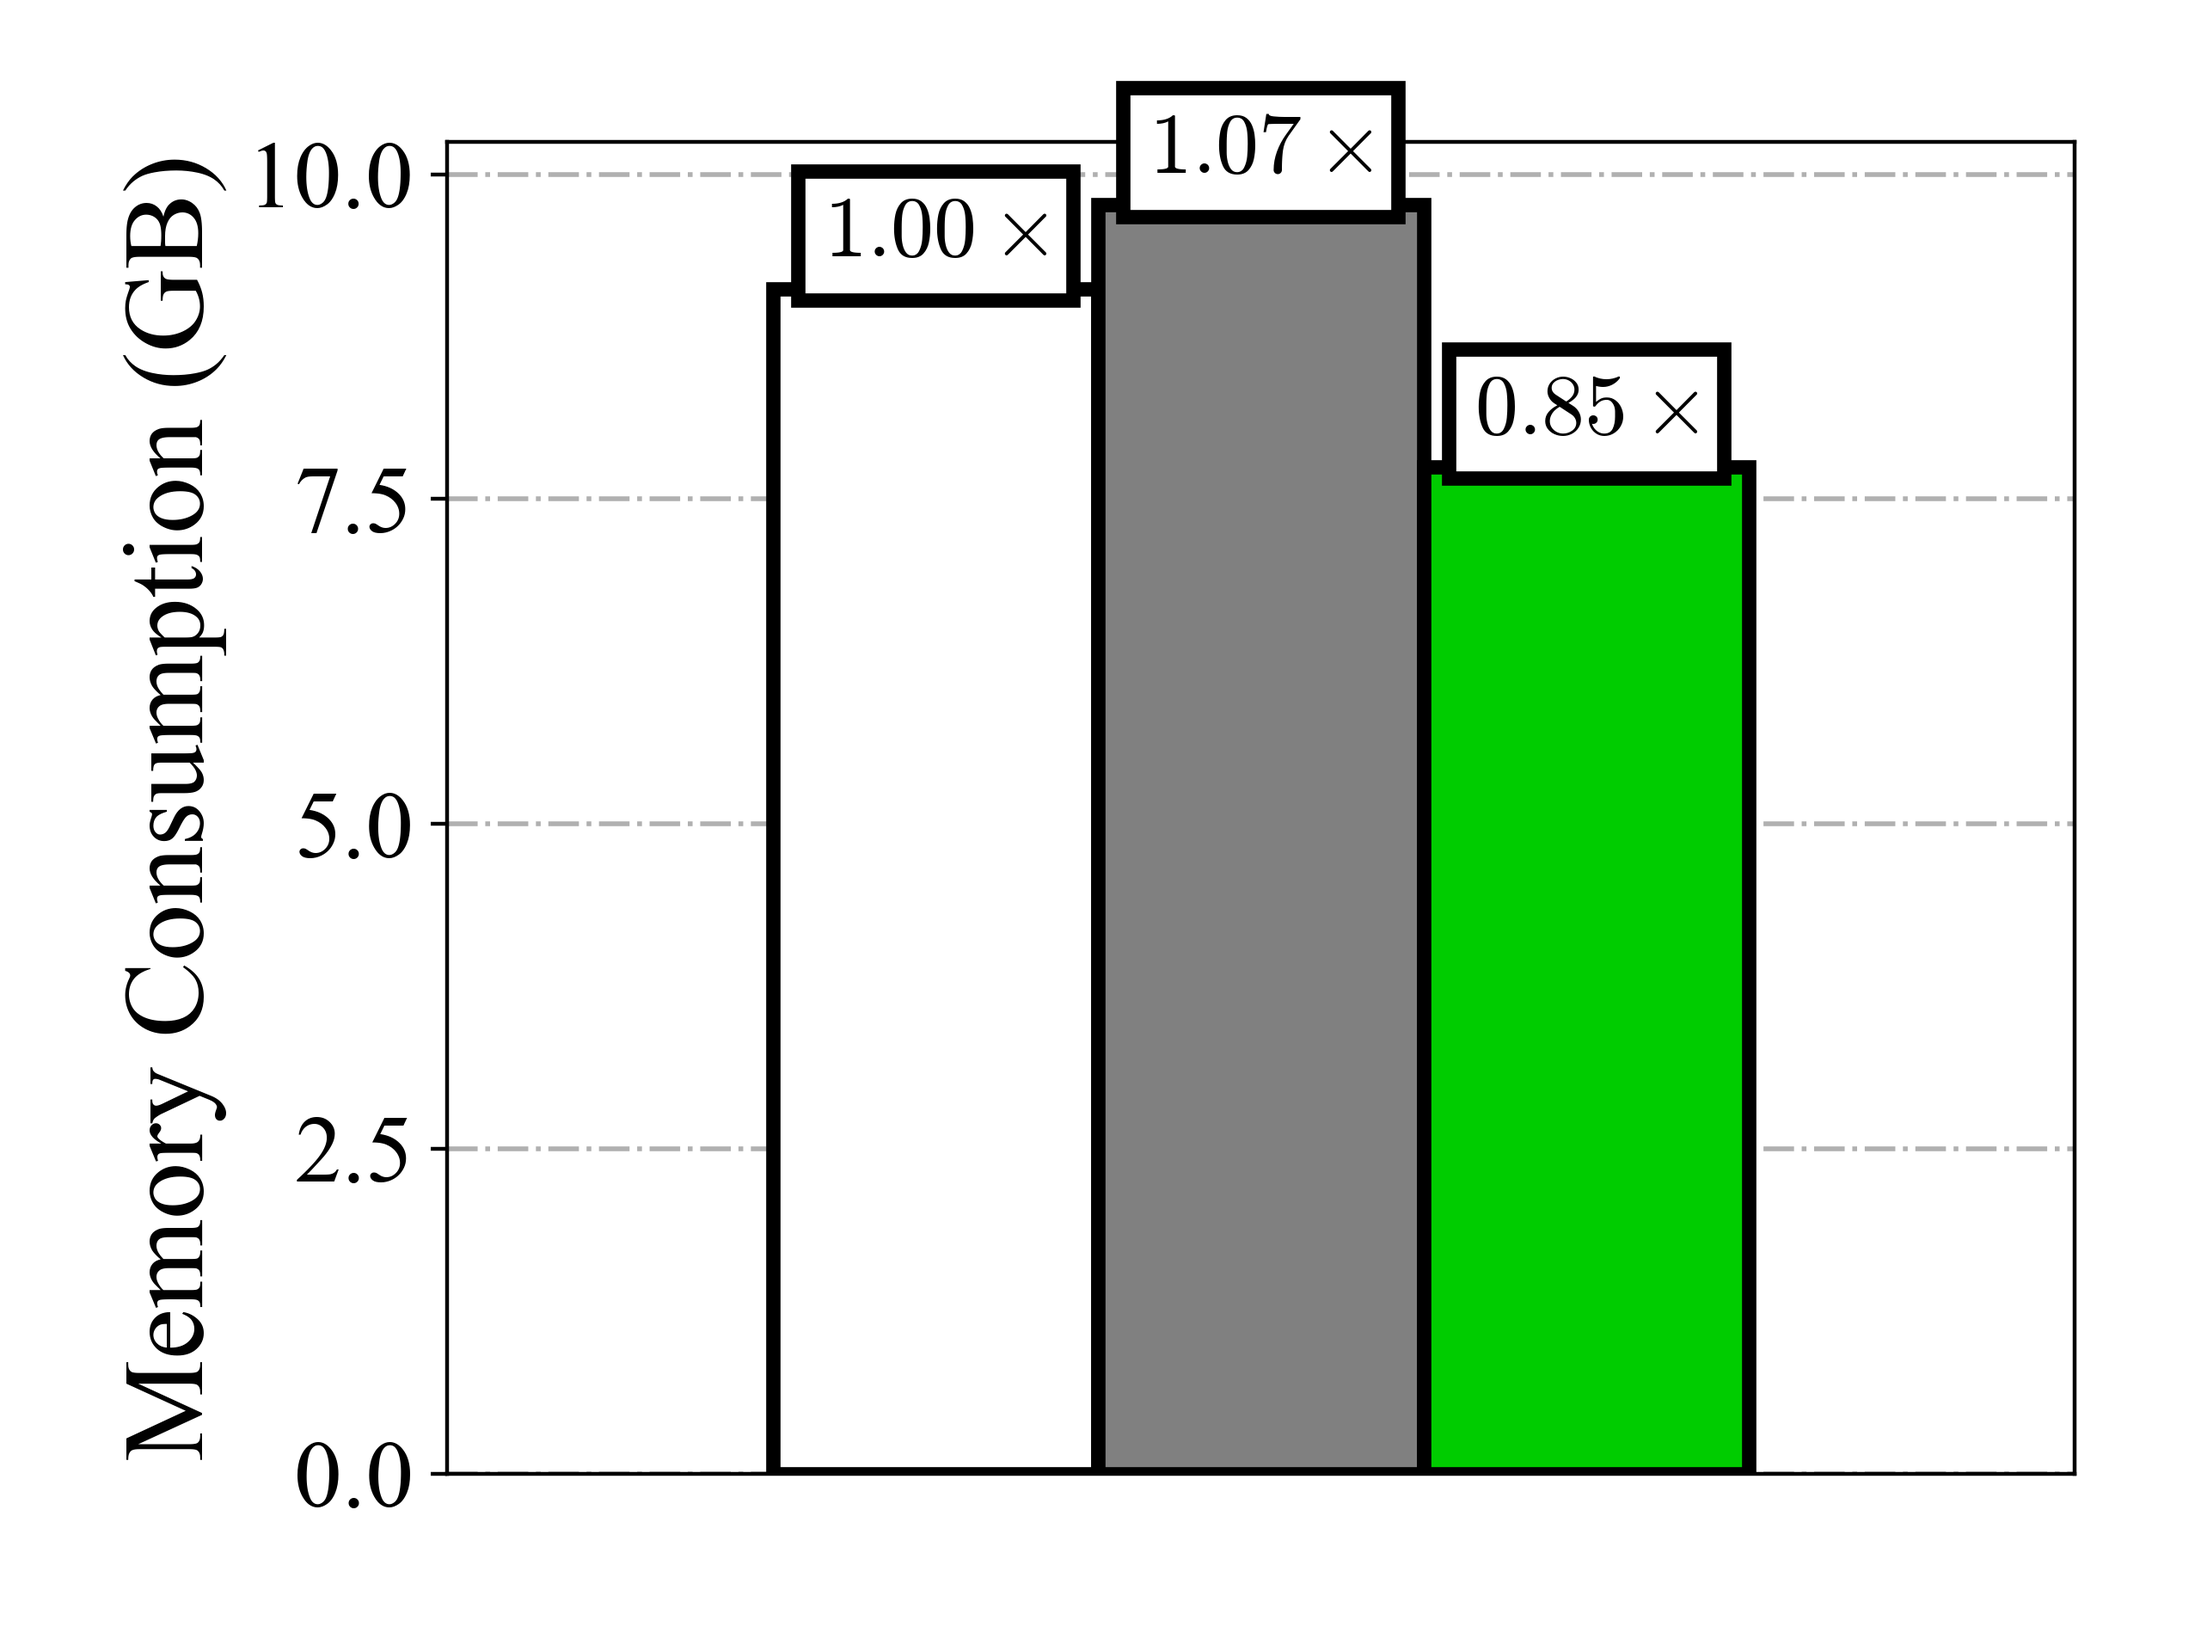
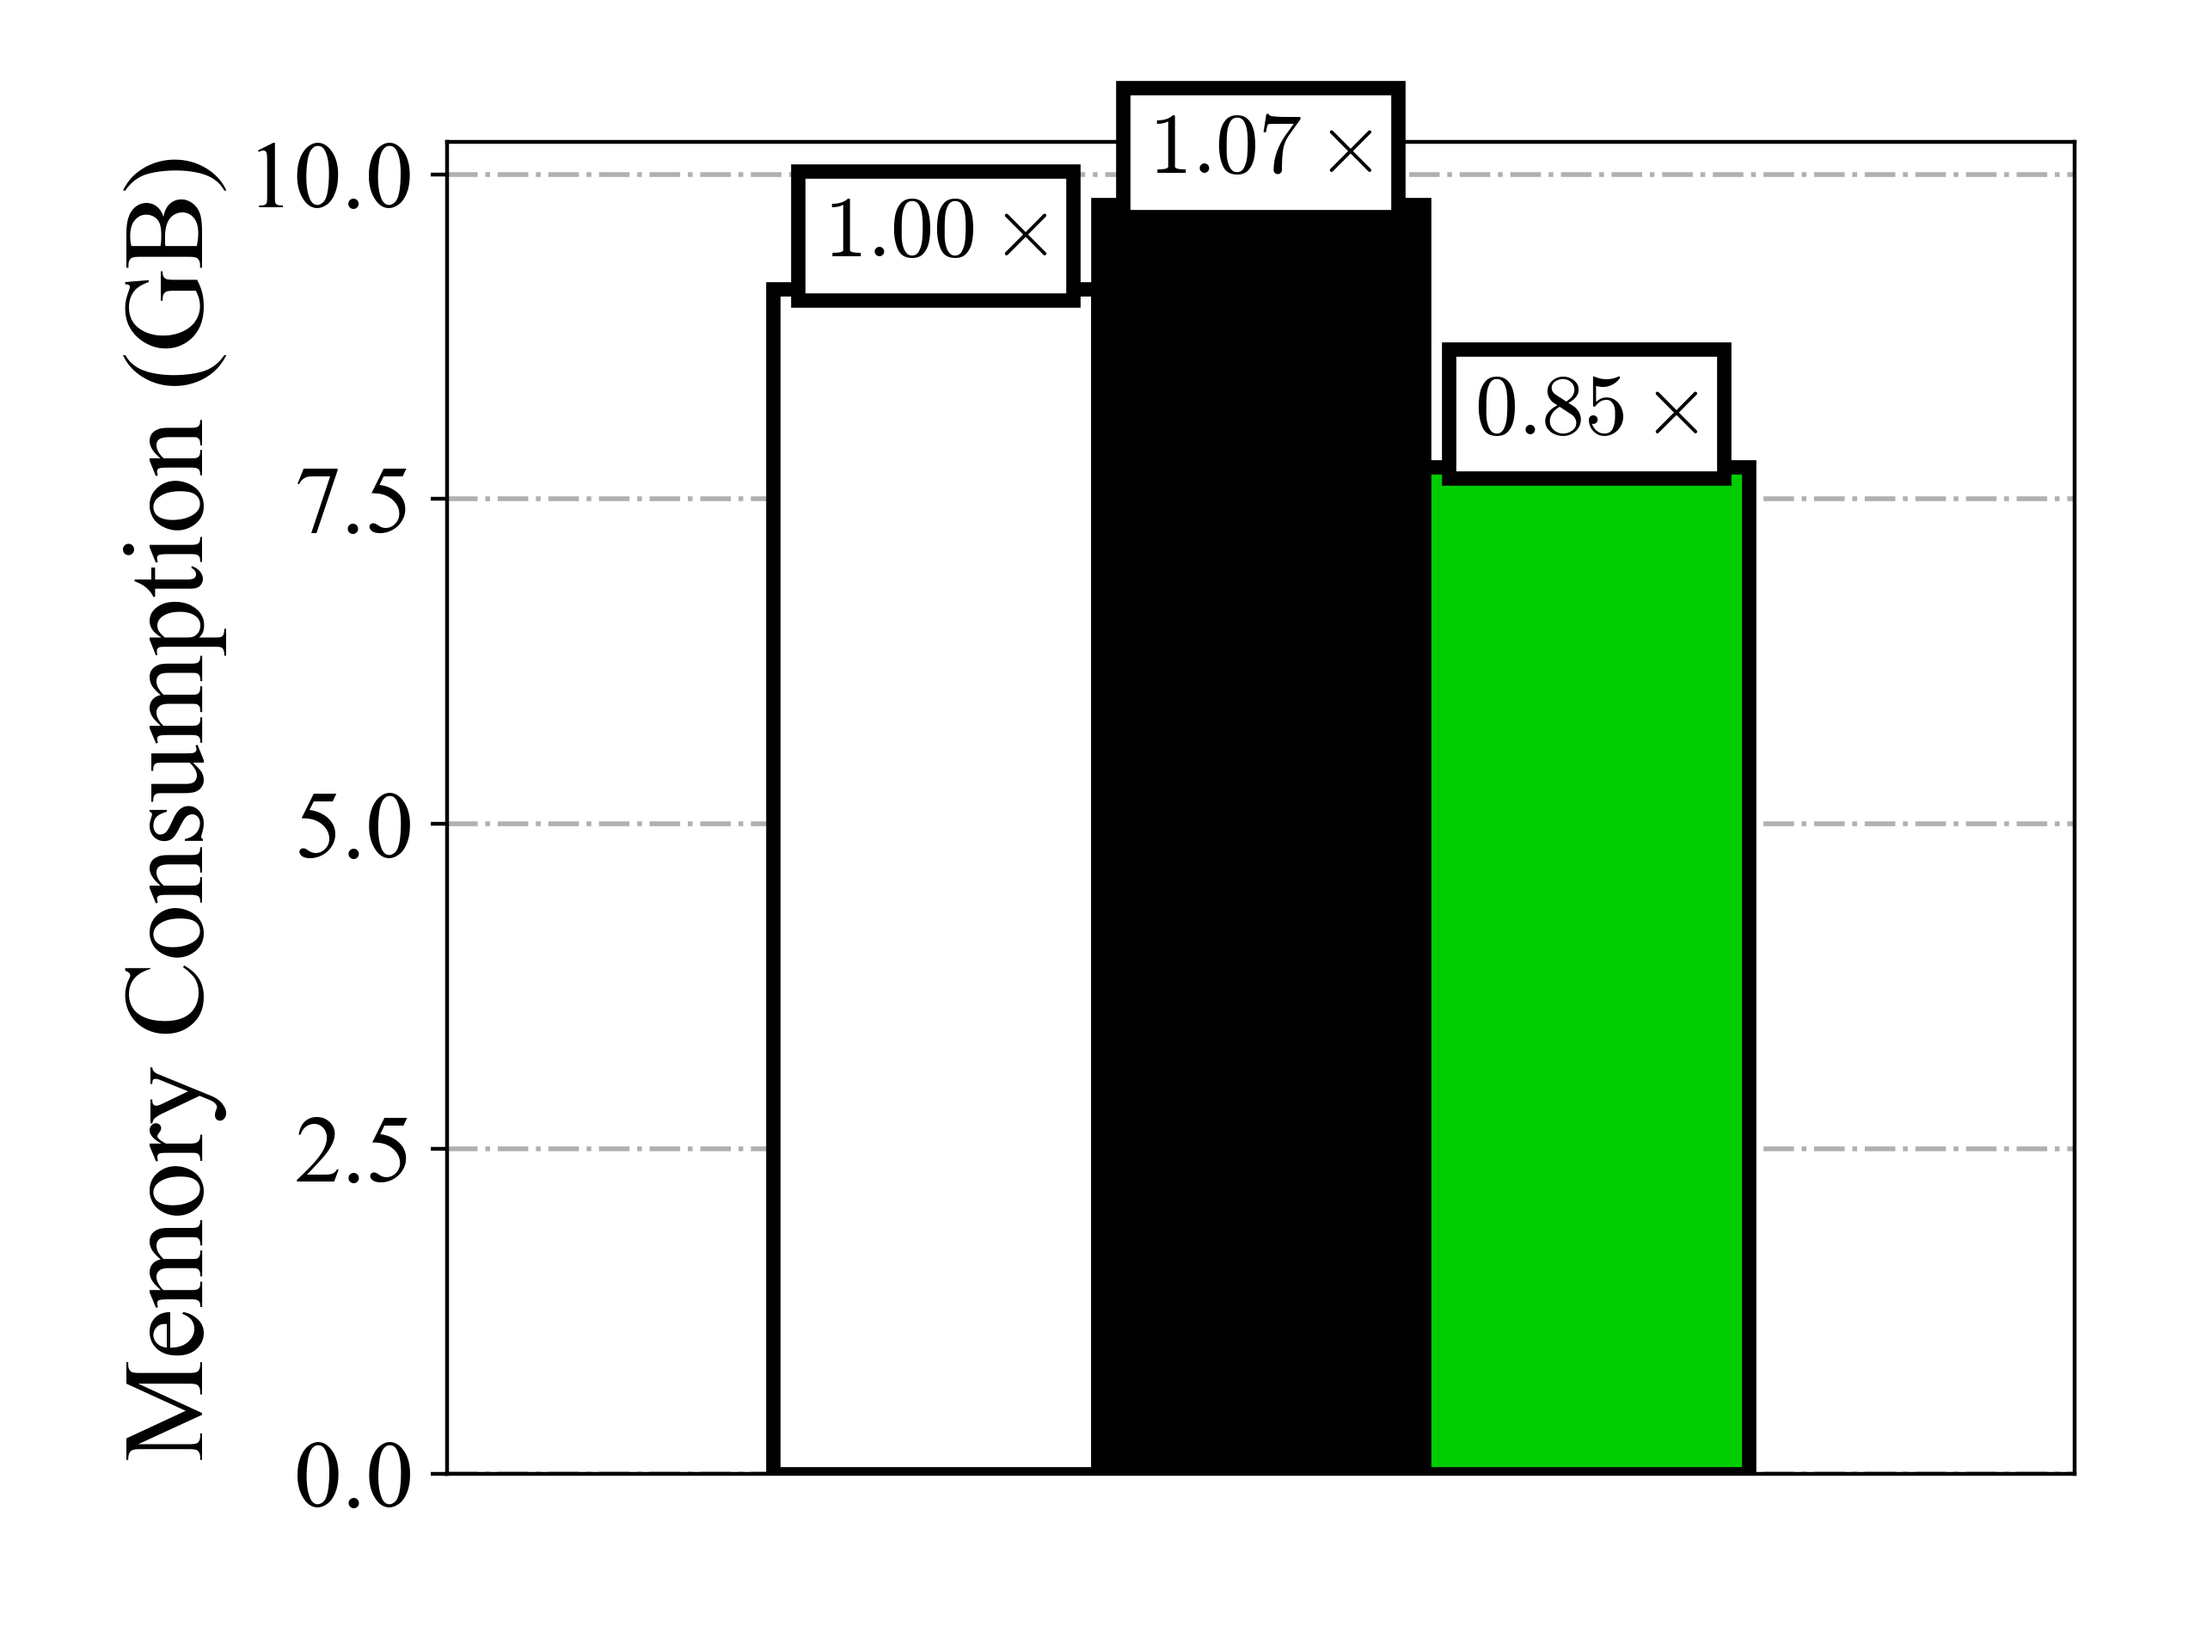
Updated graph colors.

Changed region(s): [[0.5, 0.125, 0.6562, 0.9062]]

diff --git a/workspace/results/tensorboard/tensorboard_visualizer_helper.py b/workspace/results/tensorboard/tensorboard_visualizer_helper.py
@@ -457,7 +457,7 @@ def plt_cudnn_vs_econmt_full_training_metrics(metric, metric_unit, measurer, yla
             label=r"Default$_{B=128}^\mathrm{par\_rev}$"))
     handles.append(plt.bar(x= 0*bar_width, height=  cudnn_128_par_rev_metric,
             width=bar_width, edgecolor='black', linewidth=3,
-            color='grey',
+            color='black',
             label=  r"CuDNN$_{B=128}^\mathrm{par\_rev}$"))
     handles.append(plt.bar(x= 1*bar_width, height= econmt_256_par_rev_metric,
             width=bar_width, edgecolor='black', linewidth=3,
